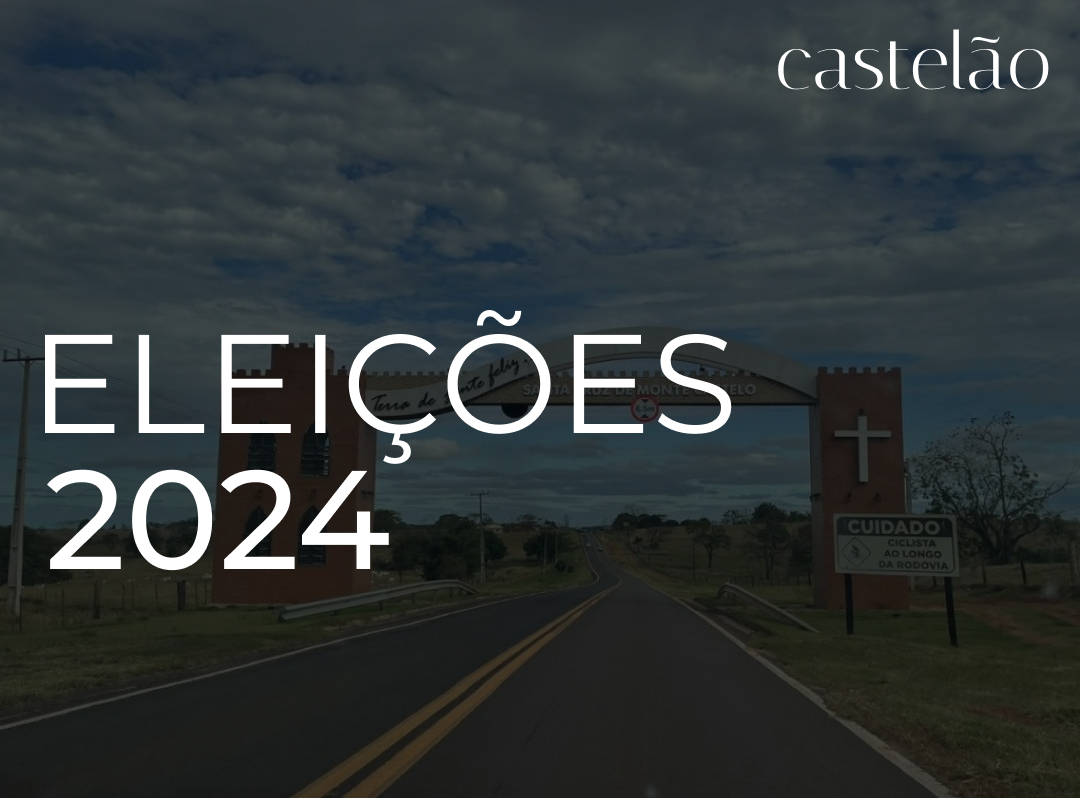
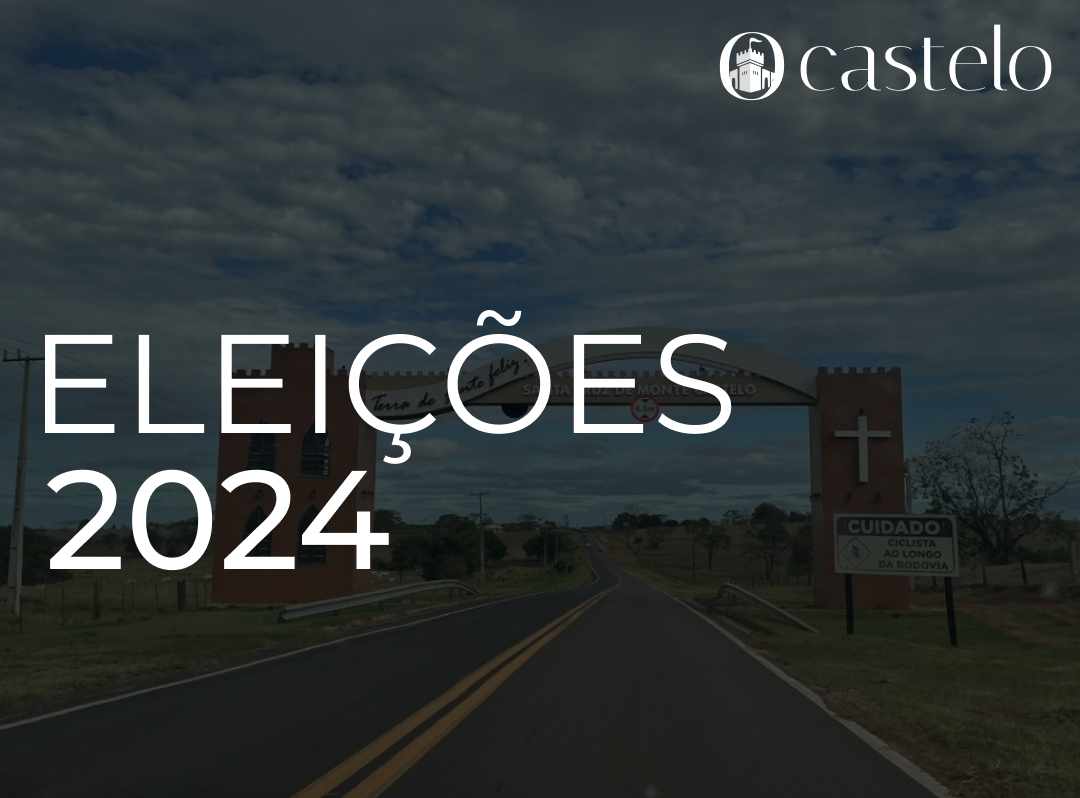
d

Changed region(s): [[0.6417, 0.0301, 0.9778, 0.1203]]

diff --git a/castelao.html b/castelao.html
@@ -3,7 +3,7 @@
 <head>
     <meta charset="UTF-8">
     <meta name="viewport" content="width=device-width, initial-scale=1.0">
-    <title>Eleições 2024 - Castelão</title>
+    <title>Eleições 2024 - O'Castelo</title>
     <meta name="description" content="Com a chegada das eleições 2024, Santa Cruz de Monte Castelo está em clima de decisão. Faltando apenas três semanas para o pleito, a cidade se prepara para escolher seus novos representantes. Este ano, o município conta com 51 candidatos a vereador e 3 candidatos a prefeito, o que promete acirrar ainda mais a disputa.">
     <link rel="stylesheet" href="portal.css"> <!-- Supondo que você tenha um arquivo CSS -->
     <link rel="icon" href="castelao-logo.ico" type="image/x-icon">
